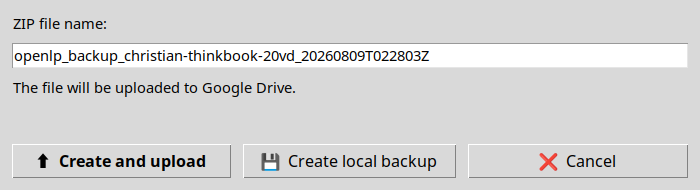
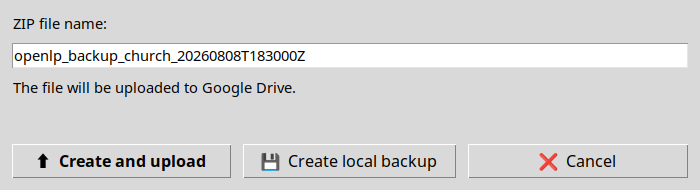
add screenshots

Changed region(s): [[0.18, 0.2632, 0.63, 0.3421]]

diff --git a/tools/generate_gui_screenshots.py b/tools/generate_gui_screenshots.py
@@ -23,7 +23,7 @@ def capture(window, destination: Path) -> None:
     window.update()
     destination.parent.mkdir(parents=True, exist_ok=True)
     subprocess.run(
-        ["import", "-window", str(window.winfo_id()), str(destination)],
+        ["import", "-window", window.title(), str(destination)],
         check=True,
     )
 
@@ -40,6 +40,11 @@ def generate() -> None:
         patch("openlp_vault.gui.has_reusable_token", return_value=True),
         patch.object(OpenLPVaultGUI, "_load_config", return_value=None),
         patch.object(OpenLPVaultGUI, "_refresh_backups", return_value=None),
+        patch.object(
+            OpenLPVaultGUI,
+            "_default_backup_filename",
+            return_value="openlp_backup_church_20260808T183000Z",
+        ),
     ):
         app = OpenLPVaultGUI()
         app.geometry("620x450")

diff --git a/README.es.md b/README.es.md
@@ -53,6 +53,8 @@ Abre la interfaz gráfica con:
 openlp-vault-gui
 ```
 
+![Ventana principal de OpenLP Vault](docs/assets/screenshots/es/main-window.png)
+
 En la primera ejecución, la GUI abre Configuración si no existe una
 autorización OAuth reutilizable. Selecciona `credentials.json`, el directorio
 de OpenLP y el nombre de la carpeta de Google Drive.
@@ -70,8 +72,7 @@ OpenLP Vault es software libre publicado bajo la
 misma licencia y proporcionar el código fuente correspondiente según la GPL.
 
 El proyecto es mantenido por la comunidad de la Iglesia Evangélica Unión de
-Centros Bíblicos «Trigales». Este reconocimiento no presenta a la iglesia como
-titular del copyright.
+Centros Bíblicos «Trigales».
 
 Las contribuciones se aceptan bajo esa misma licencia. Consulta
 [CONTRIBUTING.es.md](CONTRIBUTING.es.md).

diff --git a/README.md b/README.md
@@ -53,6 +53,8 @@ Launch the desktop interface with:
 openlp-vault-gui
 ```
 
+![OpenLP Vault main window](docs/assets/screenshots/en/main-window.png)
+
 On first launch, the GUI opens Settings when no reusable OAuth authorization
 exists. Select `credentials.json`, the OpenLP data directory, and the Google
 Drive folder name.
@@ -70,8 +72,7 @@ OpenLP Vault is free software licensed under the
 license and provide the corresponding source as required by the GPL.
 
 The project is maintained by the community of Iglesia Evangélica Unión de
-Centros Bíblicos “Trigales”. This acknowledgment does not identify the church
-as the copyright holder.
+Centros Bíblicos “Trigales”.
 
 Contributions are accepted under the same license. See
 [CONTRIBUTING.md](CONTRIBUTING.md).

diff --git a/docs/es/usage.md b/docs/es/usage.md
@@ -72,6 +72,24 @@ Desde la ventana principal se puede:
 La configuración se guarda en `~/.openlp-vault/config.json` y el token OAuth
 en `~/.openlp-vault/token.json`.
 
+### Capturas de pantalla
+
+Ventana principal:
+
+![Ventana principal de OpenLP Vault](../assets/screenshots/es/main-window.png)
+
+Crear y subir un respaldo:
+
+![Crear y subir un respaldo](../assets/screenshots/es/upload-backup.png)
+
+Descargar y restaurar un respaldo:
+
+![Descargar y restaurar un respaldo](../assets/screenshots/es/download-backup.png)
+
+Configuración:
+
+![Configuración de OpenLP Vault](../assets/screenshots/es/settings.png)
+
 ## Interfaz de línea de comandos
 
 ```bash

diff --git a/docs/en/usage.md b/docs/en/usage.md
@@ -71,6 +71,24 @@ The main window can:
 Settings are stored in `~/.openlp-vault/config.json`, and the OAuth token is
 stored in `~/.openlp-vault/token.json`.
 
+### Screenshots
+
+Main window:
+
+![OpenLP Vault main window](../assets/screenshots/en/main-window.png)
+
+Create and upload a backup:
+
+![Create and upload a backup](../assets/screenshots/en/upload-backup.png)
+
+Download and restore a backup:
+
+![Download and restore a backup](../assets/screenshots/en/download-backup.png)
+
+Settings:
+
+![OpenLP Vault settings](../assets/screenshots/en/settings.png)
+
 ## Command-line interface
 
 ```bash
